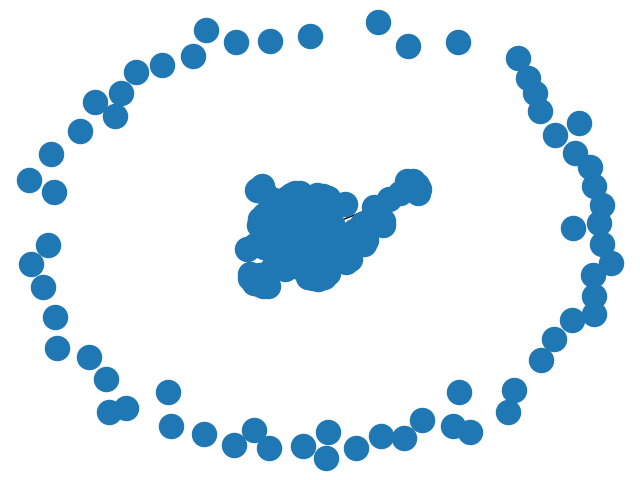
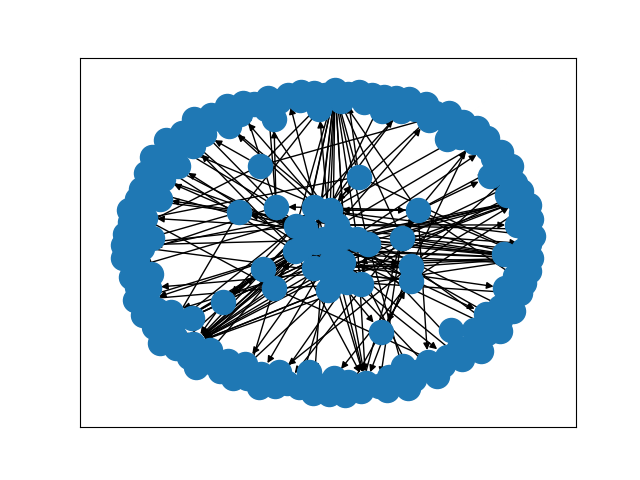
Loaded all files

diff --git a/group_project.py b/group_project.py
@@ -1,19 +1,35 @@
 import networkx as nx
 import matplotlib.pyplot as plt
 
-graph = nx.Graph()
+graph_early = nx.DiGraph()
+graph_middle = nx.DiGraph()
+graph_late = nx.DiGraph()
 
 with open('nodelist.csv', 'r') as nodefile:
     next(nodefile) # skip first line with headers
     for line in nodefile:
         id, role, community = line.split(',')
-        graph.add_node(id, role = role, community = community)
+        graph_early.add_node(id, role = role, community = community)
+        graph_middle.add_node(id, role = role, community = community)
+        graph_late.add_node(id, role = role, community = community)
 
 with open('edgelist-early.csv', 'r') as edgefile:
-    next(edgefile)
+    next(edgefile) # skip headers
     for line in edgefile:
         node1, node2, weight = line.split(',')
-        graph.add_edge(node1, node2, weight = weight)
+        graph_early.add_edge(node1, node2, weight = weight)
 
-nx.draw(graph)
-plt.savefig('graph.png')
+with open('edgelist-middle.csv', 'r') as edgefile:
+    next(edgefile) # skip headers
+    for line in edgefile:
+        node1, node2, weight = line.split(',')
+        graph_middle.add_edge(node1, node2, weight = weight)
+
+with open('edgelist-late.csv', 'r') as edgefile:
+    next(edgefile) # skip headers
+    for line in edgefile:
+        node1, node2, weight = line.split(',')
+        graph_late.add_edge(node1, node2, weight = weight)
+
+nx.draw_networkx(graph_early, pos=nx.spring_layout(graph_early), with_labels = False)
+plt.savefig('graph_early.png')
